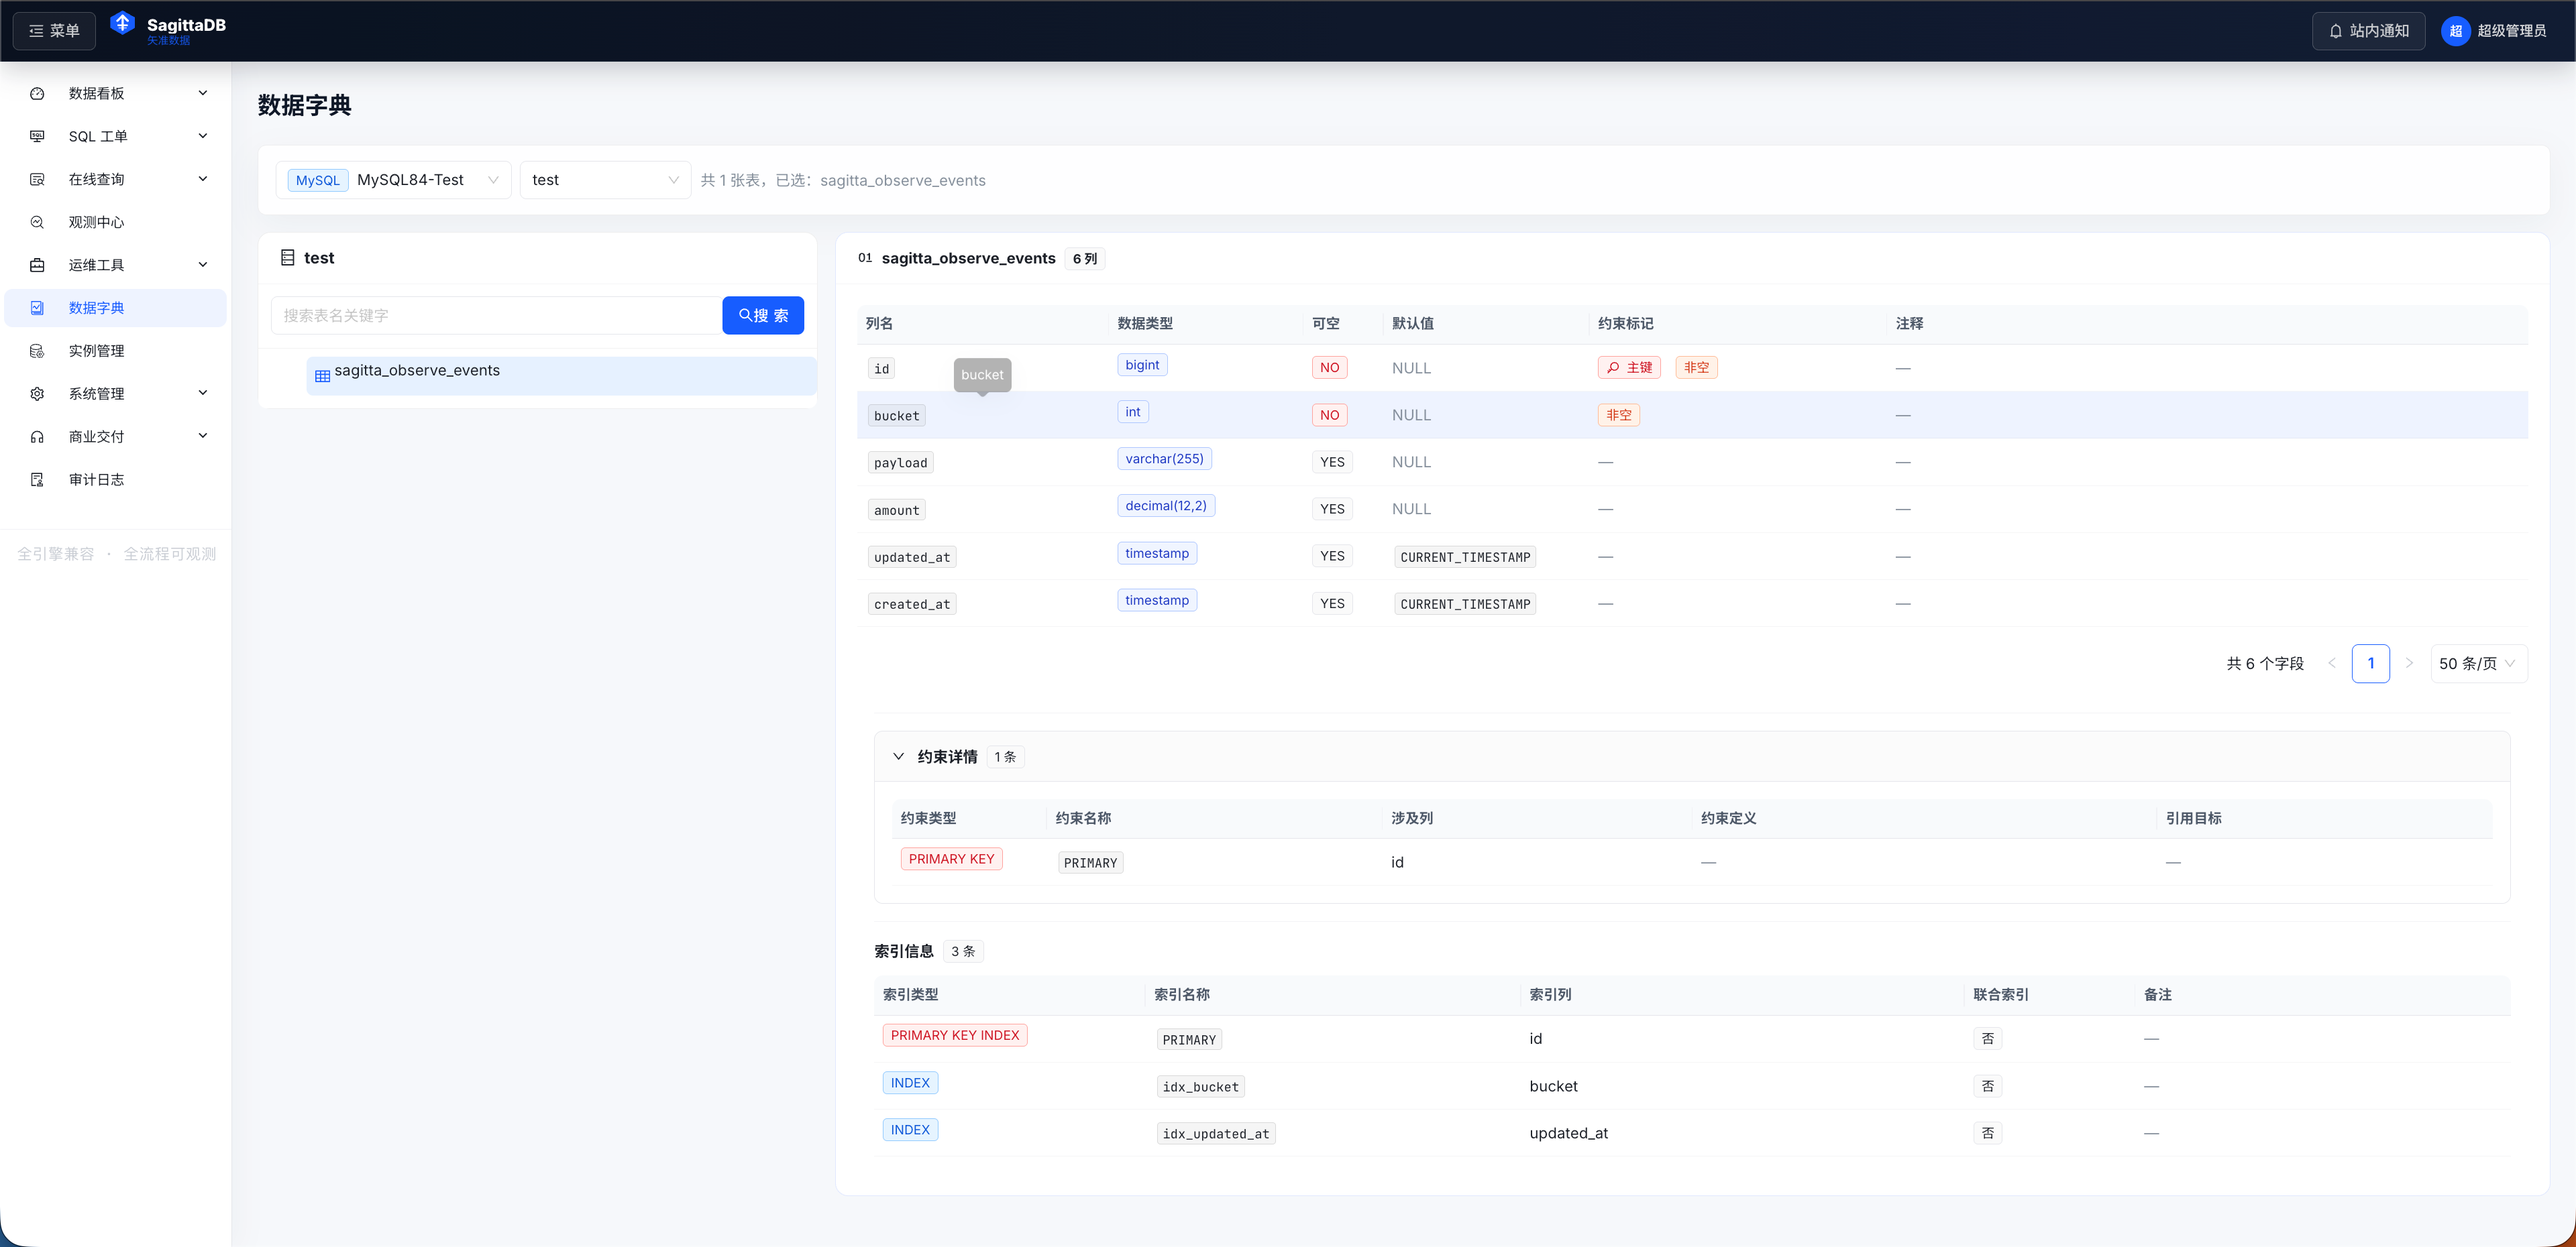
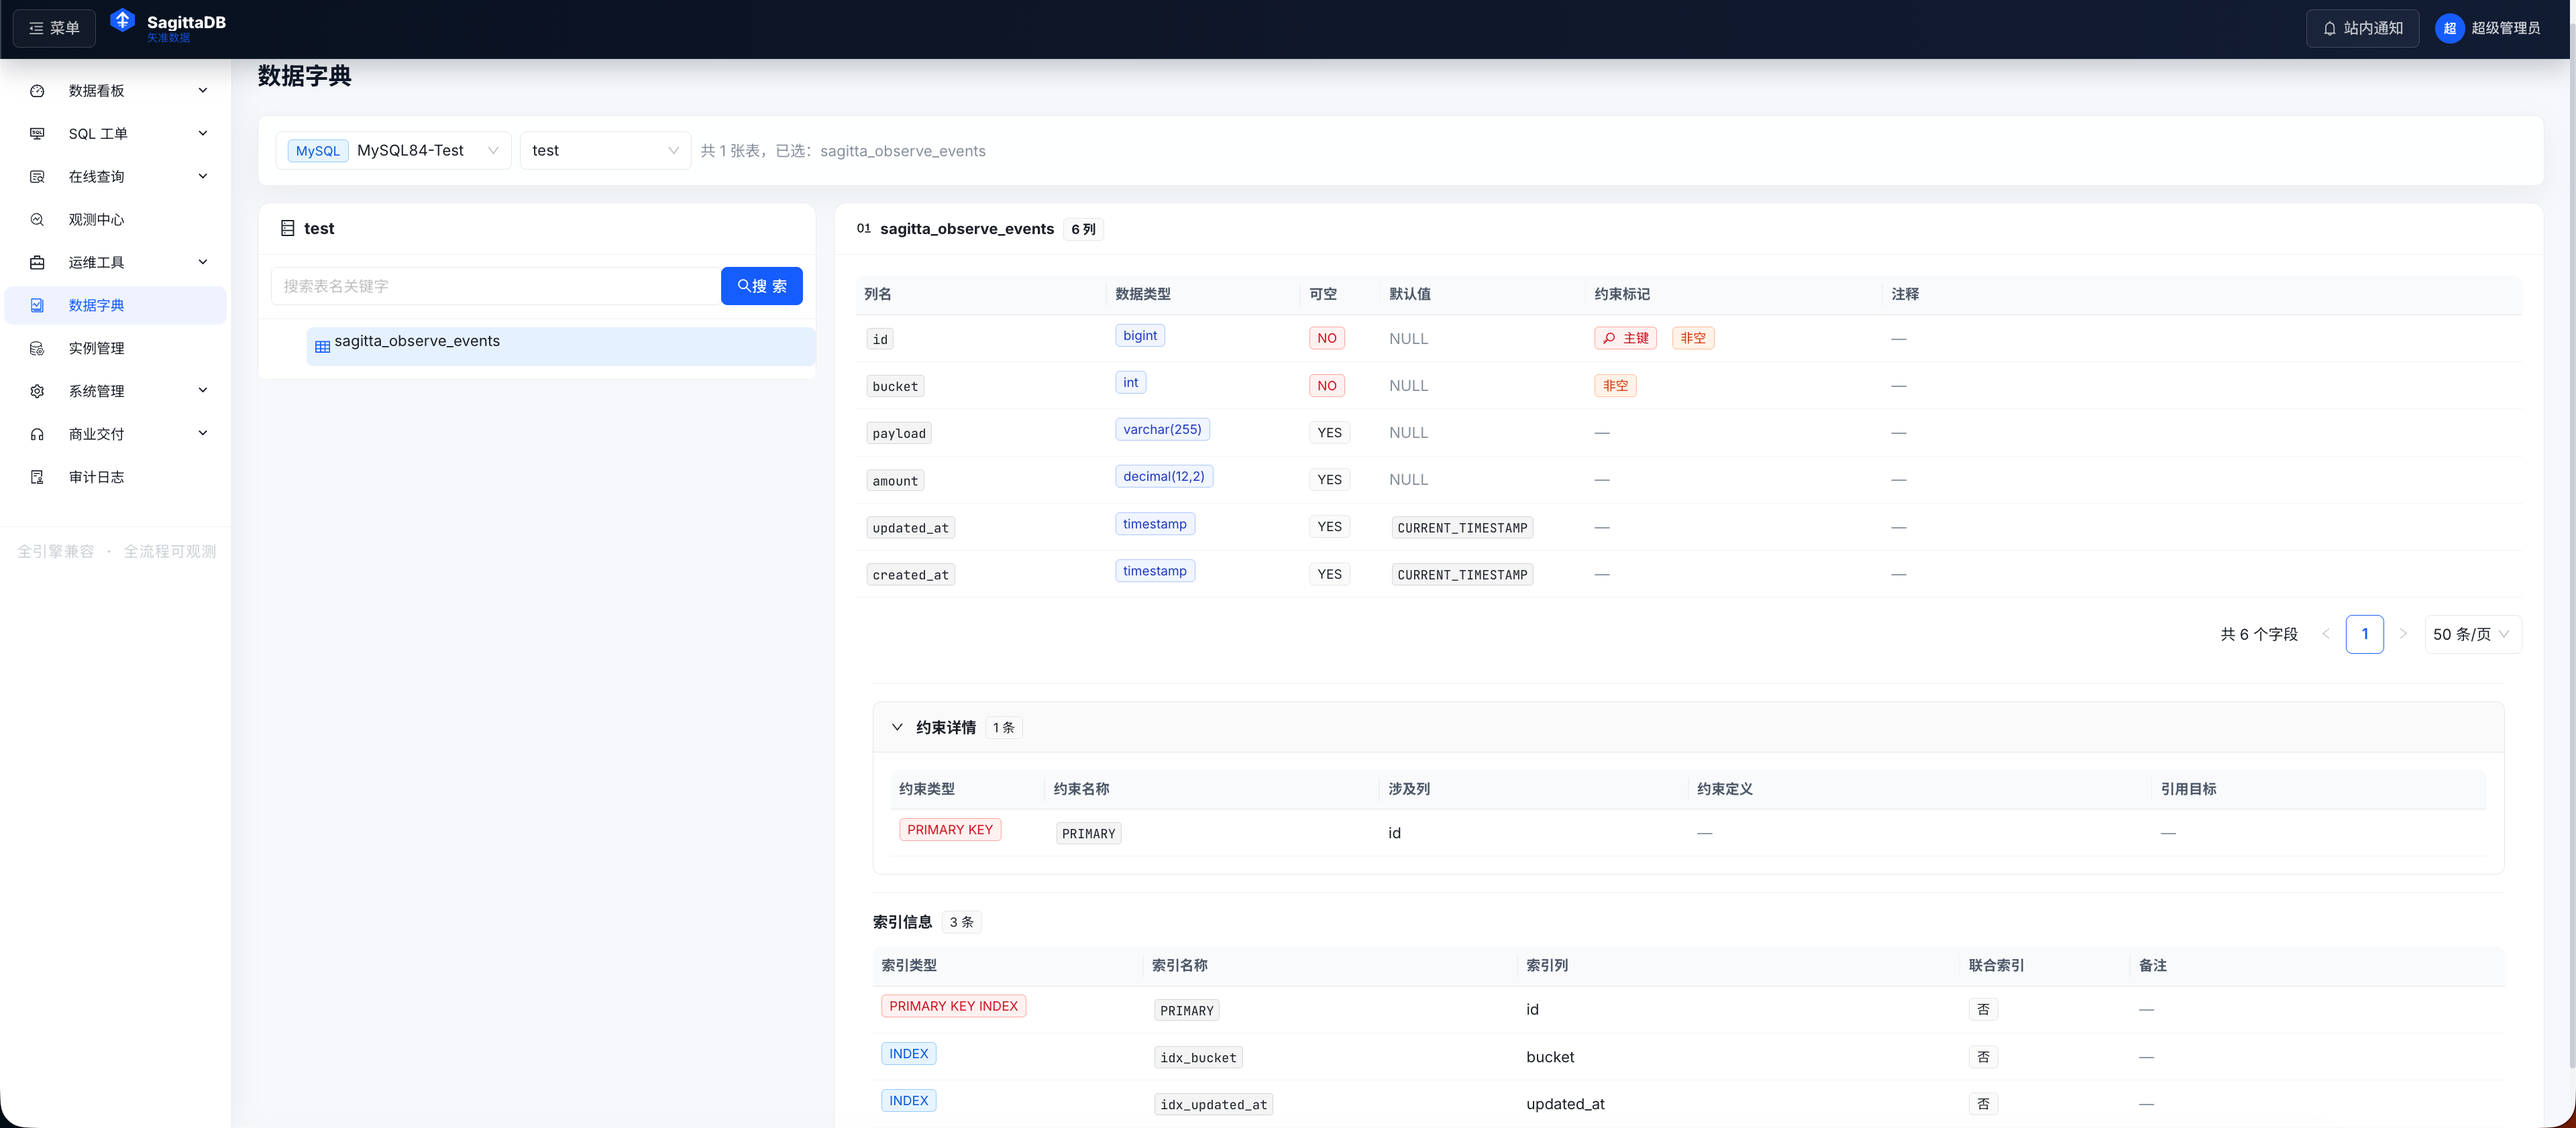
调整使用授权说明和截图

diff --git a/LEGAL-NOTICE.md b/LEGAL-NOTICE.md
@@ -1,13 +1,31 @@
-# SagittaDB Enterprise 商业交付法律提示
+# SagittaDB Enterprise 使用授权
 
-本文件为客户部署包随附提示，不替代正式合同、订单、授权函或保密协议。SagittaDB Enterprise 是商业软件，不是开源软件；公开下载、公开镜像拉取或试用部署不代表授予源码使用权、修改权、再分发权或商业生产授权。
+SagittaDB Enterprise 面向个人学习、产品评估和企业内部数据库治理验证场景提供下载与试用。你可以使用本仓库提供的部署包，在本地、测试环境或企业内部小规模环境中安装体验 SagittaDB 的核心能力。
 
-SagittaDB Enterprise 商业版仅授权客户在试用期内评估，或在合同约定的组织、部署环境、实例数量、用户数量、功能范围和有效期内使用。正式生产使用需获得 SagittaDB 商业授权。除合同另有明确约定外，客户不得：
+## 可直接使用的场景
 
-- 逆向工程、反编译、反汇编、绕过授权校验或移除完整性校验。
-- 篡改镜像、Manifest、License、部署脚本或产品标识。
-- 复制、出租、转让、再许可、托管给第三方使用或二次分发部署包、镜像和 License。
-- 使用非授权方式扩展功能、额度、版本或有效期。
-- 公开传播部署包、镜像、激活码、License、密钥、访问凭据或运维日志中的敏感信息。
+- 个人学习、技术研究和功能体验。
+- 团队内部演示、POC 验证和试用评估。
+- 企业内部小规模投产验证，例如接入少量实例、少量用户，验证 SQL 工单、在线查询、观测诊断、数据字典、脱敏和审计流程。
+- 与 SagittaDB 作者或维护者沟通前的部署准备、兼容性测试和验收材料整理。
 
-如客户需要迁移部署、扩容、续期、灾备演练或离线环境授权，应通过 SagittaDB 商业支持流程重新签发或刷新 License。
+## 试用与继续使用
+
+部署完成后，SagittaDB 支持试用授权。试用期内可以完整体验产品能力，并按客户环境完成实例接入、组织权限、审批流、查询治理和观测诊断验证。
+
+如果试用期结束后仍希望继续使用，或希望扩大到更多用户、更多实例、长期生产环境、离线环境或正式商业场景，请联系作者 Lynn-Lee 获取继续使用授权。
+
+## 使用边界
+
+为保证产品体验和后续授权服务可持续，请不要进行以下操作：
+
+- 公开传播部署包、镜像、License、激活码、密钥、访问凭据或包含敏感信息的日志。
+- 将 SagittaDB 作为自己的产品对外销售、转售、托管或二次分发。
+- 绕过授权校验、修改授权状态、移除产品标识或破坏部署包完整性。
+- 未经允许将部署包、镜像或授权文件提供给第三方独立使用。
+
+## 获取授权
+
+需要继续使用、正式投产、扩容、续期、离线部署或更多功能支持时，可以向作者提供客户 ID、部署指纹、使用规模和部署场景，以便生成合适的授权。
+
+建议在试用期内完成核心流程验证，并提前确认后续授权计划，避免试用到期后影响团队使用。
